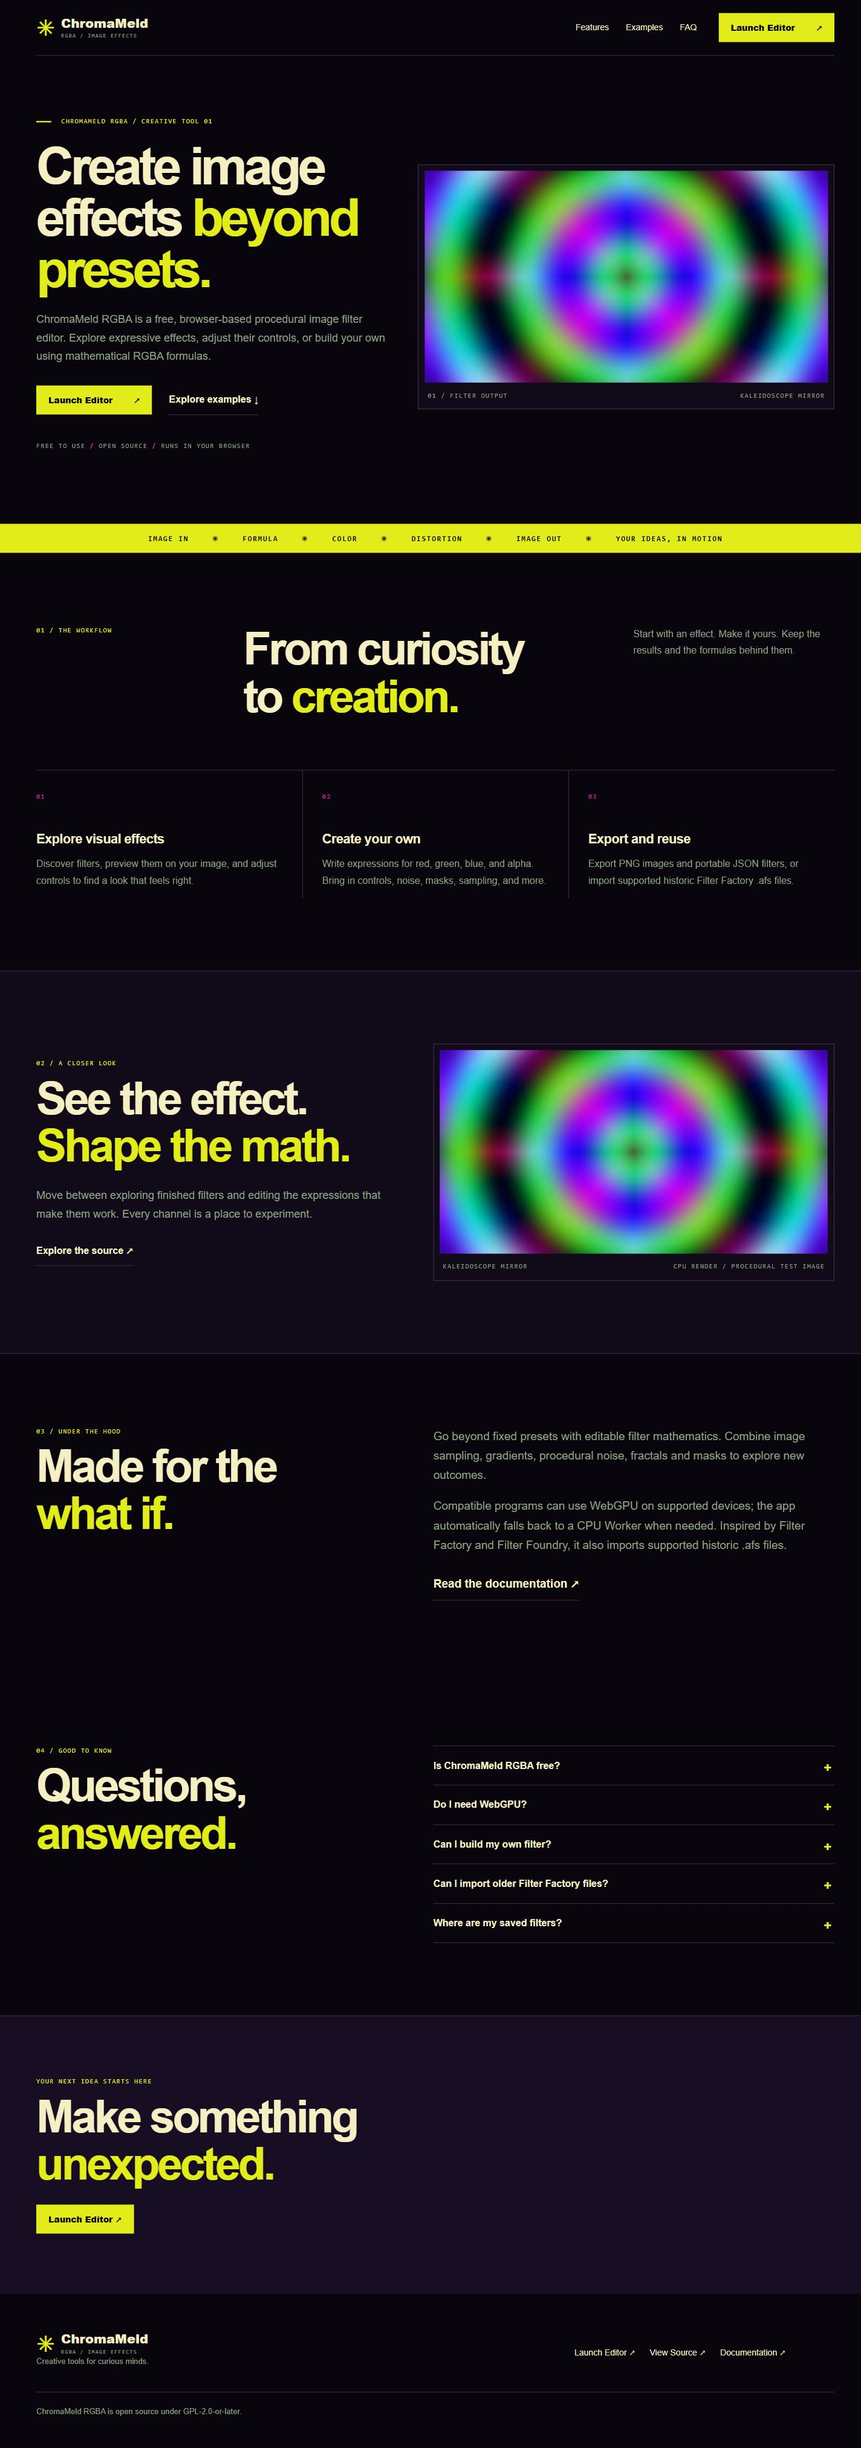
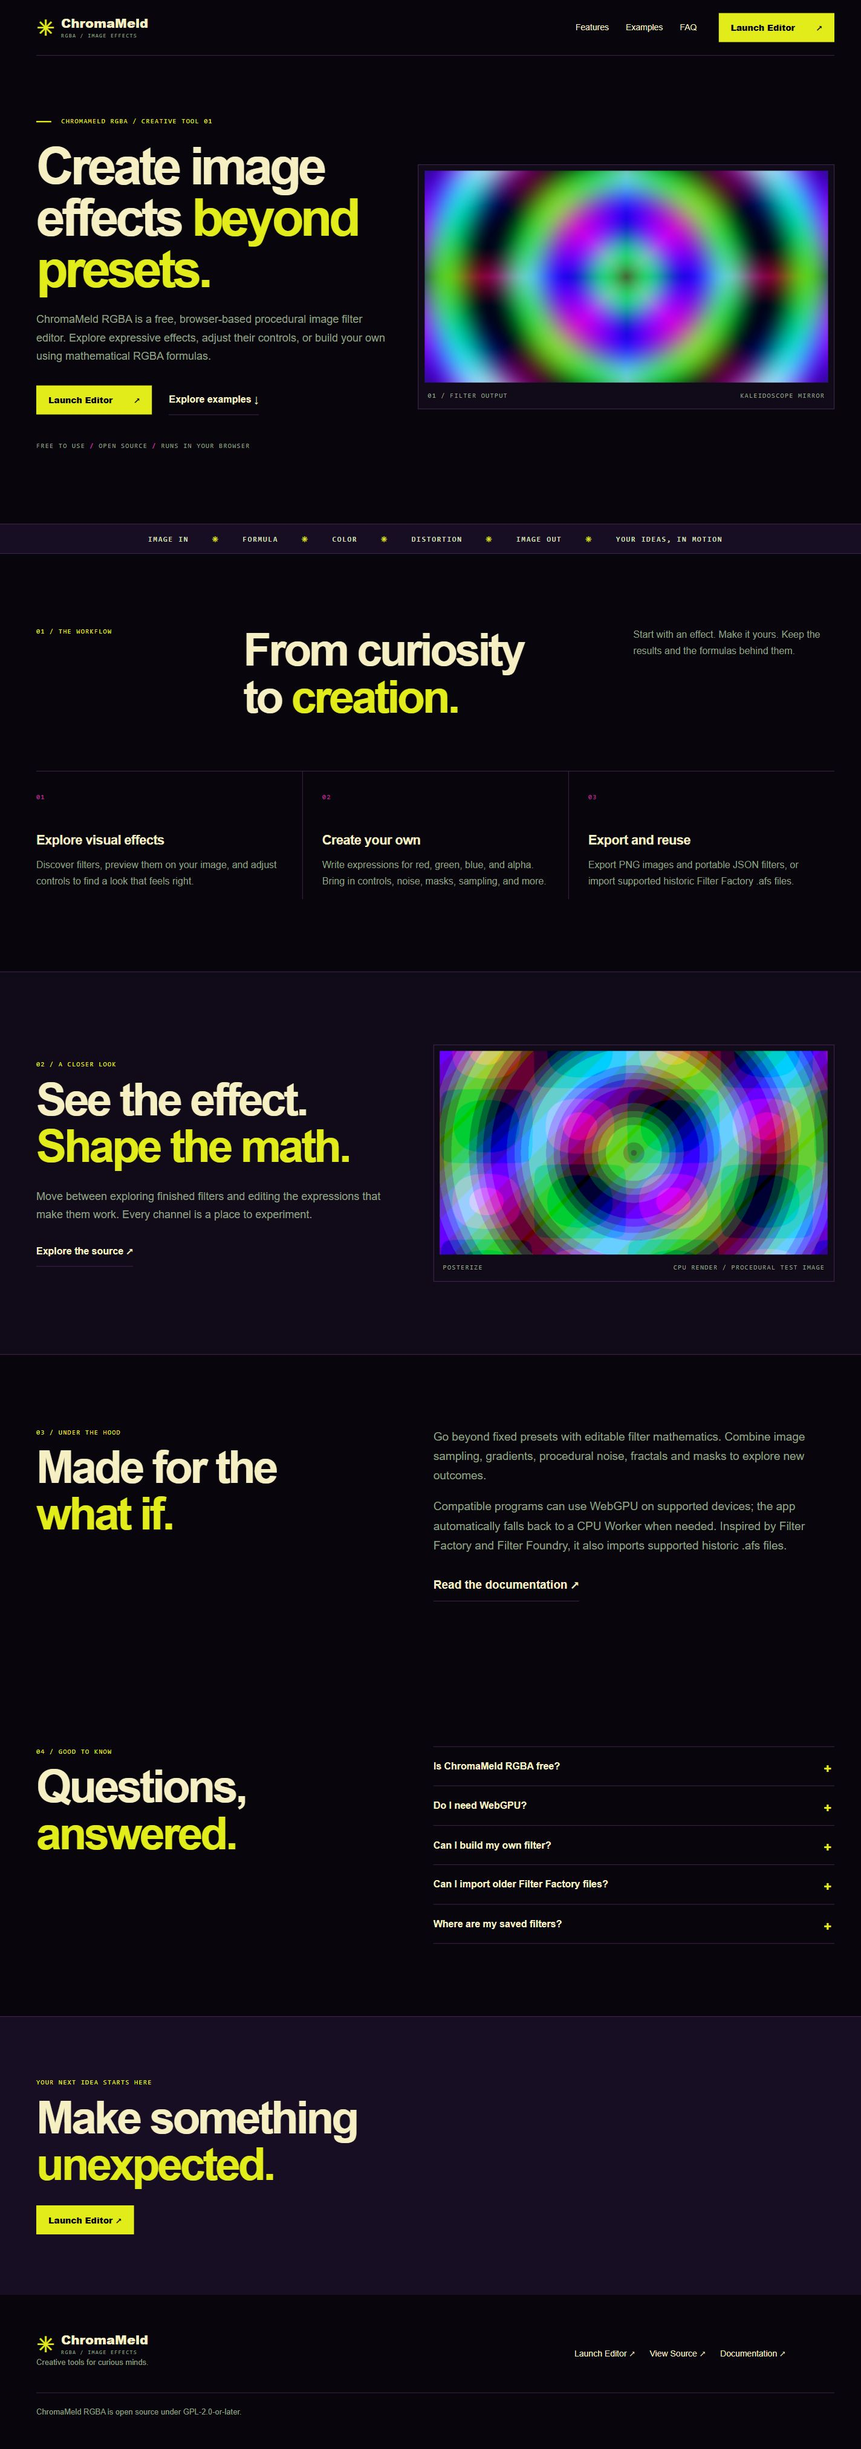
Refine Release B showcase and branding

diff --git a/assets/styles.css b/assets/styles.css
@@ -1,2 +1,2 @@
- :root{color-scheme:dark;--bg:#08050d;--panel:#110a19;--line:#51365d;--acid:#e1ec1a;--pink:#c429a3;--panel2:#180e23;--panel3:#24142f;--hover:#2d1938;--text:#f6efc4;--heading:#ece49d;--body:#cdddb7;--muted:#91a085}*{box-sizing:border-box}html{scroll-behavior:smooth}body{margin:0;background:var(--bg);color:var(--text);font-family:Inter,Arial,sans-serif}a{color:inherit}a:focus-visible,summary:focus-visible{outline:3px solid var(--acid);outline-offset:4px}.wrap{width:min(1320px,calc(100% - 80px));margin:auto}.skip{position:absolute;top:-100px;left:10px;background:var(--acid);color:#08050d;padding:12px;z-index:5}.skip:focus{top:10px}.header{min-height:92px;display:flex;align-items:center;gap:36px;border-bottom:1px solid var(--line)}.brand{display:flex;align-items:center;gap:10px;text-decoration:none;font-weight:800;font-size:21px;line-height:1}.brand small{display:block;font:9px monospace;letter-spacing:.15em;color:var(--muted);margin-top:6px}.mark{color:var(--acid);font-size:35px}.header nav{display:flex;gap:28px;margin-left:auto}.header nav a,.footer-links a{font-size:14px;text-decoration:none}.header nav a:hover,.text-link:hover{color:var(--acid)}.button{display:inline-flex;align-items:center;justify-content:center;gap:35px;min-height:48px;padding:0 20px;background:var(--acid);color:#08050d;text-decoration:none;font-weight:800;font-size:14px}.button:hover{background:var(--heading)}.hero{display:grid;grid-template-columns:1fr 1.18fr;gap:48px;align-items:center;padding-top:100px;padding-bottom:110px}.eyebrow,.micro,figcaption,.number{font:11px/1.5 monospace;letter-spacing:.12em;color:var(--muted)}.eyebrow{color:var(--acid)}.eyebrow span{display:inline-block;width:25px;height:2px;background:var(--acid);vertical-align:middle;margin-right:9px}h1,h2,h3,p{margin-top:0}h1{font-size:clamp(48px,6vw,88px);line-height:.99;letter-spacing:-.065em;margin:24px 0}h1 em,h2 em{font-style:normal;color:var(--acid)}.lead,.body-copy{font-size:18px;line-height:1.7;color:var(--muted);max-width:590px}.actions{display:flex;align-items:center;gap:28px;margin:32px 0}.text-link{font-weight:700;text-decoration:none;border-bottom:1px solid var(--line);padding:15px 0;display:inline-block}.micro{margin-top:43px}.micro b{color:var(--pink)}figure{margin:0}img{display:block;width:100%;height:auto}.hero-art,.example{border:1px solid var(--line);background:var(--panel);padding:10px}.hero-art figcaption,.example figcaption{display:flex;justify-content:space-between;gap:10px;padding:13px 5px 4px}.ticker{overflow:hidden;background:var(--acid);color:#08050d;font:bold 12px monospace;letter-spacing:.15em;white-space:nowrap;padding:16px 0}.ticker div{width:max-content;margin:auto}.ticker span{padding:0 30px}.section{padding-top:120px;padding-bottom:120px}.section-head{display:grid;grid-template-columns:1fr 2fr 1.1fr;gap:40px;align-items:start}.section h2,.endcap h2{font-size:clamp(42px,5.5vw,75px);line-height:1.04;letter-spacing:-.055em;margin-bottom:28px}.section-head>p:last-child,.feature-grid p,.difference-copy p,.questions p{color:var(--muted);line-height:1.7}.feature-grid{display:grid;grid-template-columns:repeat(3,1fr);border-top:1px solid var(--line);margin-top:55px}.feature-grid article{padding:32px 32px 0 0}.feature-grid article+article{border-left:1px solid var(--line);padding-left:32px}.number{color:var(--pink)}h3{font-size:22px;letter-spacing:-.03em;margin:50px 0 14px}.example-section{background:var(--panel);border-block:1px solid var(--line)}.example-grid,.difference,.faq{display:grid;grid-template-columns:1fr 1.15fr;gap:80px}.example-grid{align-items:center}.difference-copy{font-size:19px;max-width:660px}.questions details{border-top:1px solid var(--line)}.questions details:last-child{border-bottom:1px solid var(--line)}summary{cursor:pointer;list-style:none;font-weight:700;padding:23px 35px 23px 0;position:relative}summary::-webkit-details-marker{display:none}summary:after{content:'+';position:absolute;right:5px;color:var(--acid);font-size:22px}details[open] summary:after{content:'−'}.questions p{padding:0 25px 20px 0;margin:0}.endcap{background:var(--panel2);border-top:1px solid var(--line);padding:100px 0}.footer{padding-top:60px;padding-bottom:40px;display:grid;grid-template-columns:2fr 1fr;gap:30px}.footer p{color:var(--muted);font-size:13px}.footer-links{display:flex;flex-wrap:wrap;gap:24px}.license{grid-column:1/-1;border-top:1px solid var(--line);padding-top:24px}@media(max-width:900px){.wrap{width:min(100% - 40px,1320px)}.hero,.example-grid,.difference,.faq{grid-template-columns:1fr;gap:40px}.hero{padding:70px 0}.section{padding-top:80px;padding-bottom:80px}.section-head{grid-template-columns:1fr}.section-head h2{margin-bottom:0}.header{flex-wrap:wrap;gap:15px;padding:15px 0}.header nav{order:3;width:100%;margin:0;justify-content:space-between}.header nav a{padding:12px 0}.header-cta{margin-left:auto}.hero-art{max-width:750px}.feature-grid{grid-template-columns:1fr}.feature-grid article,.feature-grid article+article{border-left:0;border-bottom:1px solid var(--line);padding:25px 0}.feature-grid h3{margin:20px 0 10px}.footer{grid-template-columns:1fr}.license{grid-column:auto}}@media(max-width:420px){.header-cta{font-size:12px;gap:8px;padding:0 12px}.brand{font-size:18px}.actions{gap:20px;flex-wrap:wrap}.hero-art figcaption,.example figcaption{font-size:9px}.ticker div{margin-left:20px}}@media(prefers-reduced-motion:reduce){html{scroll-behavior:auto}}.footer-links a{display:inline-flex;align-items:center;min-height:44px}.header nav a{display:inline-flex;align-items:center;min-height:44px}
+ :root{color-scheme:dark;--bg:#08050d;--panel:#110a19;--panel2:#180e23;--panel3:#24142f;--surface-hover:#2d1938;--line:#4a2b58;--text:#cdddb7;--text-strong:#f6efc4;--heading:#ece49d;--muted:#91a085;--accent:#e1ec1a;--accent-hover:#f0f562;--accent-ink:#08050d;--accent2:#c429a3}*{box-sizing:border-box}html{scroll-behavior:smooth}body{margin:0;background:var(--bg);color:var(--text-strong);font-family:Inter,Arial,sans-serif}a{color:inherit}a:focus-visible,summary:focus-visible{outline:3px solid var(--accent);outline-offset:4px}.wrap{width:min(1320px,calc(100% - 80px));margin:auto}.skip{position:absolute;top:-100px;left:10px;background:var(--accent);color:var(--accent-ink);padding:12px;z-index:5}.skip:focus{top:10px}.header{min-height:92px;display:flex;align-items:center;gap:36px;border-bottom:1px solid var(--line)}.brand{display:flex;align-items:center;gap:10px;text-decoration:none;font-weight:800;font-size:21px;line-height:1}.brand small{display:block;font:9px monospace;letter-spacing:.15em;color:var(--muted);margin-top:6px}.mark{color:var(--accent);font-size:35px}.header nav{display:flex;gap:28px;margin-left:auto}.header nav a,.footer-links a{font-size:14px;text-decoration:none}.header nav a:hover,.text-link:hover{color:var(--accent)}.button{display:inline-flex;align-items:center;justify-content:center;gap:35px;min-height:48px;padding:0 20px;background:var(--accent);color:var(--accent-ink);text-decoration:none;font-weight:800;font-size:14px}.button:hover{background:var(--accent-hover)}.hero{display:grid;grid-template-columns:1fr 1.18fr;gap:48px;align-items:center;padding-top:100px;padding-bottom:110px}.eyebrow,.micro,figcaption,.number{font:11px/1.5 monospace;letter-spacing:.12em;color:var(--muted)}.eyebrow{color:var(--accent)}.eyebrow span{display:inline-block;width:25px;height:2px;background:var(--accent);vertical-align:middle;margin-right:9px}h1,h2,h3,p{margin-top:0}h1{font-size:clamp(48px,6vw,88px);line-height:.99;letter-spacing:-.065em;margin:24px 0}h1 em,h2 em{font-style:normal;color:var(--accent)}.lead,.body-copy{font-size:18px;line-height:1.7;color:var(--muted);max-width:590px}.actions{display:flex;align-items:center;gap:28px;margin:32px 0}.text-link{font-weight:700;text-decoration:none;border-bottom:1px solid var(--line);padding:15px 0;display:inline-block}.micro{margin-top:43px}.micro b{color:var(--accent2)}figure{margin:0}img{display:block;width:100%;height:auto}.hero-art,.example{border:1px solid var(--line);background:var(--panel);padding:10px}.hero-art figcaption,.example figcaption{display:flex;justify-content:space-between;gap:10px;padding:13px 5px 4px}.ticker{overflow:hidden;background:var(--panel2);color:var(--text);border-block:1px solid var(--line);font:bold 12px monospace;letter-spacing:.15em;white-space:nowrap;padding:16px 0}.ticker div{width:max-content;margin:auto}.ticker span{padding:0 30px;color:var(--accent)}.section{padding-top:120px;padding-bottom:120px}.section-head{display:grid;grid-template-columns:1fr 2fr 1.1fr;gap:40px;align-items:start}.section h2,.endcap h2{font-size:clamp(42px,5.5vw,75px);line-height:1.04;letter-spacing:-.055em;margin-bottom:28px}.section-head>p:last-child,.feature-grid p,.difference-copy p,.questions p{color:var(--muted);line-height:1.7}.feature-grid{display:grid;grid-template-columns:repeat(3,1fr);border-top:1px solid var(--line);margin-top:55px}.feature-grid article{padding:32px 32px 0 0}.feature-grid article+article{border-left:1px solid var(--line);padding-left:32px}.number{color:var(--accent2)}h3{font-size:22px;letter-spacing:-.03em;margin:50px 0 14px}.example-section{background:var(--panel);border-block:1px solid var(--line)}.example-grid,.difference,.faq{display:grid;grid-template-columns:1fr 1.15fr;gap:80px}.example-grid{align-items:center}.difference-copy{font-size:19px;max-width:660px}.questions details{border-top:1px solid var(--line)}.questions details:last-child{border-bottom:1px solid var(--line)}summary{cursor:pointer;list-style:none;font-weight:700;padding:23px 35px 23px 0;position:relative}summary::-webkit-details-marker{display:none}summary:after{content:'+';position:absolute;right:5px;color:var(--accent);font-size:22px}details[open] summary:after{content:'−'}.questions p{padding:0 25px 20px 0;margin:0}.endcap{background:var(--panel2);border-top:1px solid var(--line);padding:100px 0}.footer{padding-top:60px;padding-bottom:40px;display:grid;grid-template-columns:2fr 1fr;gap:30px}.footer p{color:var(--muted);font-size:13px}.footer-links{display:flex;flex-wrap:wrap;gap:24px}.license{grid-column:1/-1;border-top:1px solid var(--line);padding-top:24px}@media(max-width:900px){.wrap{width:min(100% - 40px,1320px)}.hero,.example-grid,.difference,.faq{grid-template-columns:1fr;gap:40px}.hero{padding:70px 0}.section{padding-top:80px;padding-bottom:80px}.section-head{grid-template-columns:1fr}.section-head h2{margin-bottom:0}.header{flex-wrap:wrap;gap:15px;padding:15px 0}.header nav{order:3;width:100%;margin:0;justify-content:space-between}.header nav a{padding:12px 0}.header-cta{margin-left:auto}.hero-art{max-width:750px}.feature-grid{grid-template-columns:1fr}.feature-grid article,.feature-grid article+article{border-left:0;border-bottom:1px solid var(--line);padding:25px 0}.feature-grid h3{margin:20px 0 10px}.footer{grid-template-columns:1fr}.license{grid-column:auto}}@media(max-width:420px){.header-cta{font-size:12px;gap:8px;padding:0 12px}.brand{font-size:18px}.actions{gap:20px;flex-wrap:wrap}.hero-art figcaption,.example figcaption{font-size:9px}.ticker div{margin-left:20px}}@media(prefers-reduced-motion:reduce){html{scroll-behavior:auto}}.footer-links a{display:inline-flex;align-items:center;min-height:44px}.header nav a{display:inline-flex;align-items:center;min-height:44px}
 .brand{min-height:44px}

diff --git a/index.html b/index.html
@@ -1,10 +1,10 @@
 <!doctype html>
-<html lang="en"><head><meta charset="utf-8"><meta name="viewport" content="width=device-width, initial-scale=1"><title>ChromaMeld RGBA — Free Procedural Image Filter Editor</title><meta name="description" content="Explore image effects, author RGBA formulas, and launch the free browser-based ChromaMeld RGBA editor."><!-- METADATA --><link rel="icon" href="assets/favicon.svg" type="image/svg+xml"><link rel="stylesheet" href="assets/styles.css"></head>
+<html lang="en"><head><meta charset="utf-8"><meta name="viewport" content="width=device-width, initial-scale=1"><title>ChromaMeld RGBA — Explore Procedural Image Effects</title><meta name="description" content="Explore image effects, author RGBA formulas, and launch the free browser-based ChromaMeld RGBA editor."><!-- METADATA --><link rel="icon" href="assets/favicon.svg" type="image/svg+xml"><link rel="stylesheet" href="assets/styles.css"></head>
 <body><a class="skip" href="#main">Skip to content</a><header class="header wrap"><a class="brand" href="https://chromameld.com/" aria-label="ChromaMeld home"><span class="mark">✳</span><span>ChromaMeld<small>RGBA / IMAGE EFFECTS</small></span></a><nav aria-label="Main navigation"><a href="#features">Features</a><a href="#examples">Examples</a><a href="#faq">FAQ</a></nav><a class="button header-cta" href="https://anthonychimming.github.io/filter-fabjs/">Launch Editor <span aria-hidden="true">↗</span></a></header>
 <main id="main"><section class="hero wrap"><div class="hero-copy"><p class="eyebrow"><span></span> CHROMAMELD RGBA / CREATIVE TOOL 01</p><h1>Create image effects <em>beyond presets.</em></h1><p class="lead">ChromaMeld RGBA is a free, browser-based procedural image filter editor. Explore expressive effects, adjust their controls, or build your own using mathematical RGBA formulas.</p><div class="actions"><a class="button" href="https://anthonychimming.github.io/filter-fabjs/">Launch Editor <span aria-hidden="true">↗</span></a><a class="text-link" href="#examples">Explore examples <span aria-hidden="true">↓</span></a></div><p class="micro">FREE TO USE <b> / </b> OPEN SOURCE <b> / </b> RUNS IN YOUR BROWSER</p></div><figure class="hero-art"><img src="assets/images/kaleidoscope.png" width="1200" height="630" alt="Colorful mirrored rings produced by the Kaleidoscope Mirror filter from a procedural test image"><figcaption><span>01 / FILTER OUTPUT</span><span>KALEIDOSCOPE MIRROR</span></figcaption></figure></section>
 <div class="ticker" aria-hidden="true"><div>IMAGE IN <span>✳</span> FORMULA <span>✳</span> COLOR <span>✳</span> DISTORTION <span>✳</span> IMAGE OUT <span>✳</span> YOUR IDEAS, IN MOTION</div></div>
 <section class="section wrap" id="features"><div class="section-head"><p class="eyebrow">01 / THE WORKFLOW</p><h2>From curiosity<br>to <em>creation.</em></h2><p>Start with an effect. Make it yours. Keep the results and the formulas behind them.</p></div><div class="feature-grid"><article><span class="number">01</span><h3>Explore visual effects</h3><p>Discover filters, preview them on your image, and adjust controls to find a look that feels right.</p></article><article><span class="number">02</span><h3>Create your own</h3><p>Write expressions for red, green, blue, and alpha. Bring in controls, noise, masks, sampling, and more.</p></article><article><span class="number">03</span><h3>Export and reuse</h3><p>Export PNG images and portable JSON filters, or import supported historic Filter Factory .afs files.</p></article></div></section>
-<section class="section example-section" id="examples"><div class="wrap example-grid"><div><p class="eyebrow">02 / A CLOSER LOOK</p><h2>See the effect.<br><em>Shape the math.</em></h2><p class="body-copy">Move between exploring finished filters and editing the expressions that make them work. Every channel is a place to experiment.</p><a class="text-link" href="https://github.com/anthonychimming/filter-fabjs">Explore the source <span aria-hidden="true">↗</span></a></div><figure class="example"><img src="assets/images/kaleidoscope.png" width="1200" height="630" loading="lazy" alt="Colorful mirrored rings rendered with the Kaleidoscope Mirror filter"><figcaption><span>KALEIDOSCOPE MIRROR</span><span>CPU RENDER / PROCEDURAL TEST IMAGE</span></figcaption></figure></div></section>
+<section class="section example-section" id="examples"><div class="wrap example-grid"><div><p class="eyebrow">02 / A CLOSER LOOK</p><h2>See the effect.<br><em>Shape the math.</em></h2><p class="body-copy">Move between exploring finished filters and editing the expressions that make them work. Every channel is a place to experiment.</p><a class="text-link" href="https://github.com/anthonychimming/filter-fabjs">Explore the source <span aria-hidden="true">↗</span></a></div><figure class="example"><img src="assets/images/posterize.png" width="1200" height="630" loading="lazy" alt="Colorful procedural rings transformed into flat bands by the Posterize filter"><figcaption><span>POSTERIZE</span><span>CPU RENDER / PROCEDURAL TEST IMAGE</span></figcaption></figure></div></section>
 <section class="section wrap difference"><div><p class="eyebrow">03 / UNDER THE HOOD</p><h2>Made for the<br><em>what if.</em></h2></div><div class="difference-copy"><p>Go beyond fixed presets with editable filter mathematics. Combine image sampling, gradients, procedural noise, fractals and masks to explore new outcomes.</p><p>Compatible programs can use WebGPU on supported devices; the app automatically falls back to a CPU Worker when needed. Inspired by Filter Factory and Filter Foundry, it also imports supported historic .afs files.</p><a class="text-link" href="https://github.com/anthonychimming/filter-fabjs#readme">Read the documentation ↗</a></div></section>
 <section class="section faq wrap" id="faq"><div><p class="eyebrow">04 / GOOD TO KNOW</p><h2>Questions,<br><em>answered.</em></h2></div><div class="questions"><details><summary>Is ChromaMeld RGBA free?</summary><p>Yes. The application is free and its source is open under GPL-2.0-or-later.</p></details><details><summary>Do I need WebGPU?</summary><p>No. A CPU rendering path is available, with WebGPU acceleration for compatible filters on supported devices.</p></details><details><summary>Can I build my own filter?</summary><p>Yes. Author RGBA formulas and add configurable controls.</p></details><details><summary>Can I import older Filter Factory files?</summary><p>Supported historic .afs files can be imported. Legacy operations and semantics may differ and may use the CPU.</p></details><details><summary>Where are my saved filters?</summary><p>Custom filters are stored locally in your browser. Use backup or export when moving between browsers or origins.</p></details></div></section>
 <section class="endcap"><div class="wrap"><p class="eyebrow">YOUR NEXT IDEA STARTS HERE</p><h2>Make something<br><em>unexpected.</em></h2><a class="button" href="https://anthonychimming.github.io/filter-fabjs/">Launch Editor ↗</a></div></section></main><footer class="wrap footer"><div><a class="brand" href="https://chromameld.com/"><span class="mark">✳</span><span>ChromaMeld<small>RGBA / IMAGE EFFECTS</small></span></a><p>Creative tools for curious minds.</p></div><div class="footer-links"><a href="https://anthonychimming.github.io/filter-fabjs/">Launch Editor ↗</a><a href="https://github.com/anthonychimming/filter-fabjs">View Source ↗</a><a href="https://github.com/anthonychimming/filter-fabjs#readme">Documentation ↗</a></div><p class="license">ChromaMeld RGBA is open source under GPL-2.0-or-later.</p></footer></body></html>

diff --git a/ASSET_PROVENANCE.md b/ASSET_PROVENANCE.md
@@ -2,7 +2,8 @@
 
 - `assets/images/source-test-card.png`: original 1200 × 630 procedural RGB test image generated for this project using trigonometric color fields, with no external image or portrait. Source generation code: `tools/generate-example.mjs`.
 - `assets/images/kaleidoscope.png`: actual output of ChromaMeld RGBA's CPU worker applied to that source using the built-in **Kaleidoscope Mirror** preset, default controls `[51, 0, 63.75, 255, 127.5, 127.5, 128, 128, 128, 128]`, native float mode. RGBA source checkout: `anthonychimming/filter-fabjs`, local revision `58d7b26dd7e089170f632cd40b115078a917f1f5`, paths `src/presets/builtins.js`, `src/core/`, and `src/renderers/cpu-worker-source.js`. It was generated via the same parser, IR and CPU worker used by the editor; it is a rendered output, not an application screenshot.
-- Reproduce with the editor checkout as a sibling named `chromameld-rgba`: from this repository root, run `node tools/generate-example.mjs`, then `node tools/encode-png.mjs`. These scripts write intermediate raw files; the editor source is GPL-2.0-or-later. No third-party portrait is included.
+- `assets/images/posterize.png`: actual CPU worker output from the same source using built-in **Posterize** (`poster`), default control `[72]` (Levels), native float mode. RGB channels use `round(c*(val(0,2,16)-1)/255)*255/(val(0,2,16)-1)`; alpha uses `a`. It uses the same editor revision and paths listed above. The source image is generated once per render with the identical deterministic formula; no external imagery is used.
+- Reproduce from the repository root with Node.js and a sibling editor checkout at `../chromameld-rgba` at commit `58d7b26dd7e089170f632cd40b115078a917f1f5` (ensure its `src/core`, `src/presets/builtins.js`, and `src/renderers/cpu-worker-source.js` match that revision). Run `node tools/generate-example.mjs kaleidoscope-mirror`, `node tools/generate-example.mjs poster`, and `node tools/encode-png.mjs`, in that order. The scripts produce 1200 × 630 RGBA buffers and lossless PNGs; ignored `.rgba` intermediates may be removed afterwards. The editor source is GPL-2.0-or-later. No third-party portrait is included.
 - `assets/favicon.svg`: simple original geometric mark created for this site.
 
 The earlier portrait-based social card is excluded because its underlying image rights could not be verified. The site source and artwork licensing should be explicitly selected by the owner before release; no license is assumed merely from the editor license.
